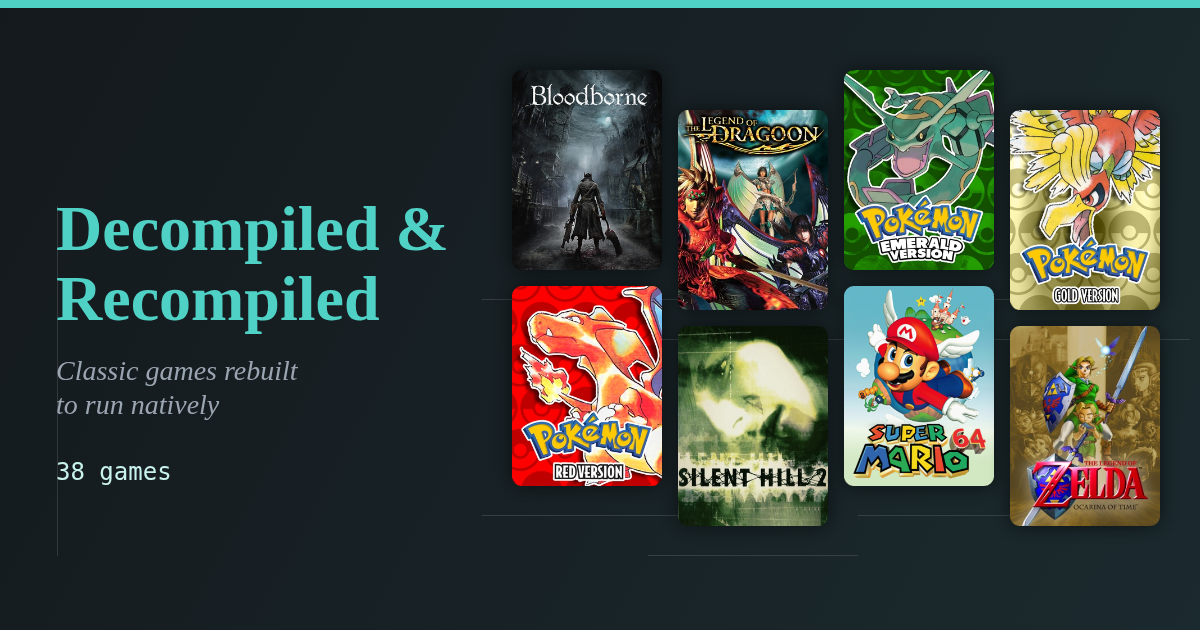
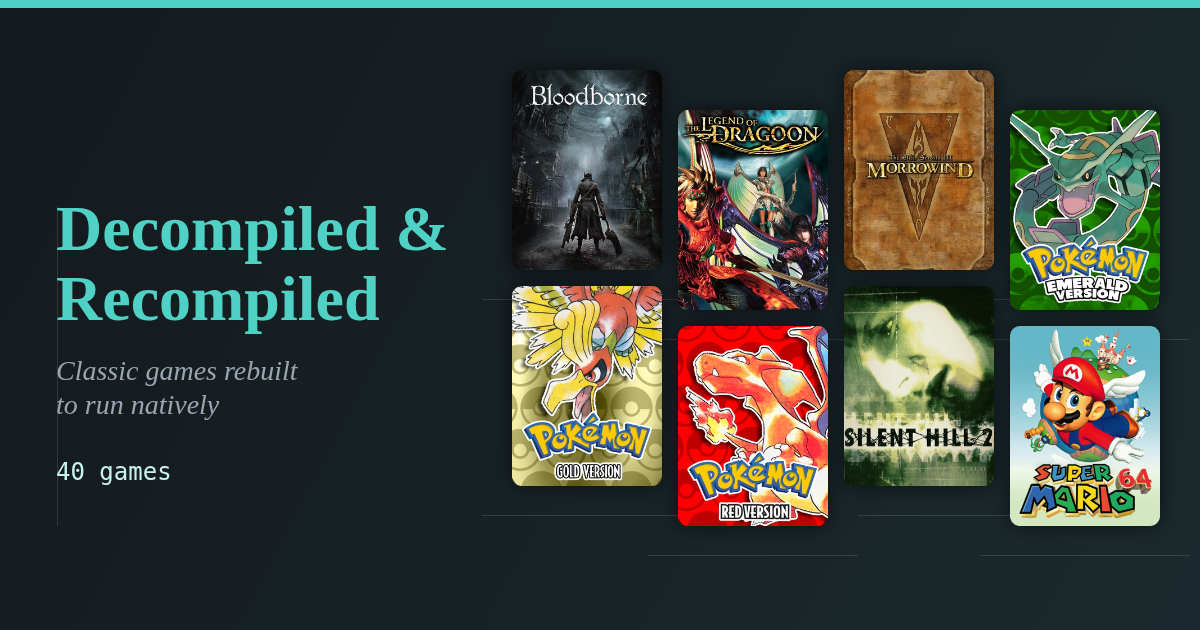
2026-10-24 15:03

Changed region(s): [[0.4008, 0.0905, 0.9867, 0.8444], [0.0308, 0.7238, 0.0617, 0.754]]

diff --git a/recomp/index.html b/recomp/index.html
@@ -32,7 +32,7 @@
 <div id="recomp-body"></div>
 <div class="recomp-header-sub">Updated 2026-10-24</div>
 </div>
-<script type="application/json" id="recomp-data">[{"title":"Banjo-Kazooie","year":"1998","status":"Released","hq":false,"platform":["N64"],"target":["3DS","PC"],"notes":"Supports 3D","cover":"https://cdn2.steamgriddb.com/thumb/260e341a628166bf868c778bcca8fdd7.png","urls":["https://github.com/aidenator/Lighthouse-3DS/releases","https://github.com/BanjoRecomp/BanjoRecomp/releases"]},{"title":"Bloodborne","year":"2015","status":"Released","hq":true,"platform":["PS4"],"target":["PC"],"notes":"v0.6 - high quality","cover":"https://cdn2.steamgriddb.com/thumb/021399af062379408df9c358a1a83cdb.jpg","urls":["https://github.com/deadinside28/bloodborne_pc/releases"]},{"title":"Dark Cloud","year":"2000","status":"Unverified","hq":false,"platform":["PS2"],"target":["PC"],"notes":"Not started until after 2?","cover":"https://cdn2.steamgriddb.com/thumb/79d58cf9cf3ba08874b23b73a1cbdf08.jpg","urls":["https://github.com/TheMoonPeople/Chronicle"]},{"title":"Dark Cloud 2","year":"2002","status":"In Progress","hq":false,"platform":["PS2"],"target":["PC"],"notes":"v0.9.5 - playable, needs improvement","cover":"https://cdn2.steamgriddb.com/thumb/b084f475f1244ad87ae8faa2b3bd82a5.jpg","urls":["https://github.com/Red-tv141/DC2-PS2RECOMP/releases"]},{"title":"Deception I - Tecmo's Deception: Invitation to Darkness","year":"","status":"Released","hq":false,"platform":["PS1"],"target":["PC"],"notes":"","cover":"https://cdn2.steamgriddb.com/thumb/de6e717e11835cc693a4ed7c8a722690.jpg","urls":["https://github.com/dannyowelch/deception-recomp/releases"]},{"title":"Dinosaur Planet","year":"","status":"Released","hq":false,"platform":["N64"],"target":["PC"],"notes":"Unrelease precursor to Starfox Adventures","cover":"https://cdn2.steamgriddb.com/thumb/11738c383581f80d010ca13ac005d763.jpg","urls":["https://github.com/DinosaurPlanetRecomp/dino-recomp/releases"]},{"title":"Eternal Darkness: Sanity's Requiem","year":"2002","status":"Released","hq":false,"platform":["GC"],"target":["PC"],"notes":"","cover":"https://cdn2.steamgriddb.com/thumb/3e42021abd9df64e0f46279806ed9970.jpg","urls":["https://github.com/griches/EternalDarknessRecomp/releases"]},{"title":"GoldenEye 007 XBLA","year":"2010","status":"Released","hq":false,"platform":["N64","Xbox"],"target":["PC"],"notes":"Unreleased XBOX/XBLA version. A N64 recomp also exists.","cover":"https://cdn2.steamgriddb.com/thumb/f0971d67a49ade9bab406f7664e8129d.jpg","urls":["https://github.com/CaiusCodes/GoldenEye-007-XBLA-PC-Recomp/releases"]},{"title":"Gravity Rush","year":"2012","status":"Released","hq":false,"platform":["PS4"],"target":["PC"],"notes":"v0.1.8","cover":"https://cdn2.steamgriddb.com/thumb/b5c6f7094bd23b059624131ec409a422.jpg","urls":["https://github.com/LucaPazienza/gravityrush_pc/releases/"]},{"title":"Gravity Rush 2","year":"","status":"Released","hq":false,"platform":["PS4"],"target":["PC"],"notes":"Same author as Last Guardian port.","cover":["https://cdn2.steamgriddb.com/thumb/6ac9536a82fe2896847e4c4fb1f72de2.jpg"],"urls":["https://recompsoftware.com/p/gr2-pc/"]},{"title":"Ico","year":"2001","status":"Released","hq":false,"platform":["PS2"],"target":["PC"],"notes":"v0.8.6","cover":"https://cdn2.steamgriddb.com/thumb/54c8077a3713597237f91535a6082b1f.jpg","urls":["https://github.com/nathanialf/ico-pc/releases"]},{"title":"Jet Force Gemini","year":"","status":"Released","hq":false,"platform":["N64"],"target":["PC"],"notes":"","cover":"https://cdn2.steamgriddb.com/thumb/e40084a1c911addf8a36b6058c123cdc.jpg","urls":["https://github.com/TK22-26/JetForceGemini-Recomp/releases"]},{"title":"King's Field IV The Ancient City","year":"2001","status":"Unverified","hq":false,"platform":["PS2"],"target":["?"],"notes":"","cover":"https://cdn2.steamgriddb.com/thumb/1fb4554ec4192679831737705c8839f2.jpg","urls":["https://voicedrew11.github.io/kfiv-decomp/progress/"]},{"title":"Legend of Dragoon","year":"","status":"Released","hq":true,"platform":["PS1"],"target":["PC"],"notes":"v3.0 - high quality","cover":"https://cdn2.steamgriddb.com/thumb/aa82fd1c7df60df76d515816cbdb76a0.jpg","urls":["https://github.com/Legend-of-Dragoon-Modding/Severed-Chains/releases"]},{"title":"Mega Man Legends","year":"","status":"Released","hq":false,"platform":["PS1"],"target":["PC"],"notes":"","cover":"https://cdn2.steamgriddb.com/thumb/de46b308829039baf89d3f4aee7e22a9.jpg","urls":["https://github.com/VuloB1/MegaManLegendsRecomp/releases/tag/v0.1.0"]},{"title":"Mega Man Legends 2","year":"","status":"Unverified","hq":false,"platform":["PS1"],"target":["PC"],"notes":"Unverified","cover":"https://cdn2.steamgriddb.com/thumb/c4f67f7d632843a4fc5dbe9c090df9df.jpg","urls":["https://github.com/alexbeavs-ps1-ports/mega-man-legends-2-recomp/releases"]},{"title":"Perfect Dark","year":"NaN","status":"Released","hq":false,"platform":["N64"],"target":["PC"],"notes":"","cover":"https://cdn2.steamgriddb.com/thumb/f2eaa301f9c53bb10fb8e5b9d3d0ea9c.jpg","urls":["https://github.com/n64hub/perfect-dark-recomp/releases"]},{"title":"Pokémon Emerald","year":"2004","status":"Released","hq":true,"platform":["GBA"],"target":["3DS"],"notes":"Dual screen support, 3D voxel graphics option.","cover":"https://cdn2.steamgriddb.com/thumb/3cf4fceab9d14ef6a28b0a964d27d6f5.jpg","urls":["https://emerald-3ds.com/"]},{"title":"Pokémon Gold","year":"1999","status":"Released","hq":true,"platform":["GB"],"target":["PC"],"notes":"Might prefer Polished Crystal romhack to this recomp.","cover":"https://cdn2.steamgriddb.com/thumb/e82fdbf5ac57bb46fb25935dc894038c.jpg","urls":["https://gen2recomp.net/"]},{"title":"Pokémon Red","year":"1996","status":"Released","hq":true,"platform":["GB"],"target":["PC"],"notes":"","cover":"https://cdn2.steamgriddb.com/thumb/4d53e7e87772a51972bc942a99de63c9.jpg","urls":["https://gen1recomp.com/"]},{"title":"Resident Evil: Code: Veronica","year":"2000","status":"Released","hq":false,"platform":["?"],"target":["PC"],"notes":"","cover":"https://cdn2.steamgriddb.com/thumb/9ab45beb213b81202a330cfa5e99b411.jpg","urls":["https://github.com/aikatore/recvx-enhanced-port/releases"]},{"title":"Shadow of the Colossus","year":"2005","status":"Released","hq":false,"platform":["PS2","PS4"],"target":["PC"],"notes":"PS4 version, may only have windows executable.","cover":"https://cdn2.steamgriddb.com/thumb/c85bd019483ea2c17032bf940015d8c6.jpg","urls":["https://github.com/AjncSystem/ShadowOfTheColossus-PC/releases"]},{"title":"Silent Hill","year":"1999","status":"Released","hq":false,"platform":["PS1"],"target":["PC"],"notes":"","cover":"https://cdn2.steamgriddb.com/thumb/1dcc077aab5503c56609968fc56e3f1b.jpg","urls":["https://github.com/SlickAmogus/silent-hill-decomp/releases"]},{"title":"Silent Hill 2","year":"2001","status":"Released","hq":true,"platform":["PS2"],"target":["3DS","PC"],"notes":"sh23ds is a new engine, written in C for the 3DS, that plays Silent Hill 2 from the PC version's own data.","cover":"https://cdn2.steamgriddb.com/thumb/b9c7994af9dd5f0684c53371e91444a8.jpg","urls":["https://github.com/ankushKun/sh23ds/releases"]},{"title":"Silent Hill: Downpour","year":"2011","status":"Released","hq":false,"platform":["PS3"],"target":["PC"],"notes":"v1.1.8","cover":"https://cdn2.steamgriddb.com/thumb/7f996610ab63c3bc9590c1bd8e9a7d65.jpg","urls":["https://github.com/LittleBitUA/DownpourRecomp/releases"]},{"title":"Skies of Arcadia","year":"2000","status":"Released","hq":false,"platform":["GC"],"target":["PC"],"notes":"Allows extraction of uncompressed audio from dreamcast version for usage in gamecube game.","cover":"https://m.media-amazon.com/images/I/51J1KQMPg6L.jpg","urls":["https://github.com/ogdanimal/SkiesOfArcadiaLegends-Recomp/releases"]},{"title":"Super Mario 64","year":"","status":"Released","hq":true,"platform":["N64"],"target":["3DS"],"notes":"Supports 3D","cover":"https://cdn2.steamgriddb.com/thumb/ea98cb4ef75b56acda616e5166438fb6.png","urls":["https://github.com/Splashy527/sm64-port"]},{"title":"The Last Guardian","year":"2016","status":"Released","hq":false,"platform":["PS4"],"target":["PC"],"notes":"","cover":"https://cdn2.steamgriddb.com/thumb/9de0389a7c202d5101fa0543cd37daed.jpg","urls":["https://github.com/HayatoG/tlg_pc/releases"]},{"title":"The Legend of Zelda: A Link to the Past","year":"","status":"Released","hq":false,"platform":["SNES"],"target":["3DS","PC"],"notes":"Supports dual screen","cover":"https://cdn2.steamgriddb.com/thumb/7edaadde50012f0860952123564eb1ba.jpg","urls":["https://github.com/EstebanPdN/zelda-alttp-3ds/releases"]},{"title":"The Legend of Zelda: Link's Awakening","year":"2019","status":"Released","hq":false,"platform":["SWITCH"],"target":["PC"],"notes":"","cover":"https://cdn2.steamgriddb.com/thumb/62e42d5128071bb96fc3a269019e0504.png","urls":["https://github.com/peiikai/LASRecomp/releases"]},{"title":"The Legend of Zelda: Link's Awakening DX","year":"1993","status":"Released","hq":false,"platform":["GB"],"target":["PC"],"notes":"Full remake","cover":"https://cdn2.steamgriddb.com/thumb/d49341a06820dffb768971bcb1b951c7.jpg","urls":["https://archive.org/details/links-awakening-dx-hd"]},{"title":"The Legend of Zelda: Majora's Mask","year":"","status":"Released","hq":false,"platform":["N64"],"target":["PC"],"notes":"v1.2.2","cover":"https://cdn2.steamgriddb.com/thumb/775679ee9220a358ee19f572041e40f0.jpg","urls":["https://github.com/Zelda64Recomp/Zelda64Recomp/releases"]},{"title":"The Legend of Zelda: Ocarina of Time","year":"","status":"Released","hq":true,"platform":["N64"],"target":["PC","PSP"],"notes":"High quality. Includes randomizer.","cover":"https://cdn2.steamgriddb.com/thumb/ed89e6477ff6a465891a5f17f77948ae.jpg","urls":["https://www.shipofharkinian.com/","https://github.com/z2442/oot-PSP/releases"]},{"title":"The Legend of Zelda: The Wind Waker","year":"2002","status":"Released","hq":true,"platform":["GC","WiiU"],"target":["PC"],"notes":"","cover":"https://cdn2.steamgriddb.com/thumb/8d5c0500d7ec1c04842c4b33673d0f43.jpg","urls":["https://github.com/ZeldaWWHDRecomp/ZeldaWWHDRecomp/releases"]},{"title":"The Legend of Zelda: Twilight Princess","year":"2006","status":"Released","hq":true,"platform":["GC"],"target":["PC"],"notes":"High quality","cover":"https://cdn2.steamgriddb.com/thumb/ce3e0c75f7e8a5b4c78a0ac050b73bbd.jpg","urls":["https://twilitrealm.dev/"]},{"title":"The Simpsons: Hit & Run","year":"","status":"Released","hq":true,"platform":["PC"],"target":["3DS"],"notes":"Supports 3D and second screen radar map.","cover":"https://cdn2.steamgriddb.com/thumb/3ab7434b949fbf9a19c3fcc830c1bdf1.jpg","urls":["https://github.com/AlexMolina08/The-Simpsons-Hit-and-Run-O3DS/releases"]},{"title":"Uncharted: The Nathan Drake Collection","year":"2015","status":"Released","hq":true,"platform":["PS4"],"target":["PC"],"notes":"v0.3.9 wndows/proton","cover":"https://cdn2.steamgriddb.com/thumb/6374abaaafb1a4c0832a34ffa29b15b0.jpg","urls":["https://github.com/Supermedo/uncharted_pc/releases"]},{"title":"Valkyrie Profile","year":"1999","status":"Unverified","hq":false,"platform":["PS1"],"target":["PC"],"notes":"Unverified. Uses PSXRecomp. PSP vesion Lenneth might be a better experience.","cover":"https://cdn2.steamgriddb.com/thumb/6f1e903e8fca6d5649f73e37364d7c26.jpg","urls":["https://github.com/Ed1z19/ValkyrieRecomp/releases","https://github.com/hachi23/ValkyrieRecomp-Complete"]}]</script>
+<script type="application/json" id="recomp-data">[{"title":"Banjo-Kazooie","year":"1998","status":"Released","hq":false,"platform":["N64"],"target":["3DS","PC"],"notes":"Supports 3D","cover":"https://cdn2.steamgriddb.com/thumb/260e341a628166bf868c778bcca8fdd7.png","urls":["https://github.com/aidenator/Lighthouse-3DS/releases","https://github.com/BanjoRecomp/BanjoRecomp/releases"]},{"title":"Bloodborne","year":"2015","status":"Released","hq":true,"platform":["PS4"],"target":["PC"],"notes":"v0.6 - high quality","cover":"https://cdn2.steamgriddb.com/thumb/021399af062379408df9c358a1a83cdb.jpg","urls":["https://github.com/deadinside28/bloodborne_pc/releases"]},{"title":"Dark Cloud","year":"2000","status":"Unverified","hq":false,"platform":["PS2"],"target":["PC"],"notes":"Not started until after 2?","cover":"https://cdn2.steamgriddb.com/thumb/79d58cf9cf3ba08874b23b73a1cbdf08.jpg","urls":["https://github.com/TheMoonPeople/Chronicle"]},{"title":"Dark Cloud 2","year":"2002","status":"In Progress","hq":false,"platform":["PS2"],"target":["PC"],"notes":"v0.9.5 - playable, needs improvement","cover":"https://cdn2.steamgriddb.com/thumb/b084f475f1244ad87ae8faa2b3bd82a5.jpg","urls":["https://github.com/Red-tv141/DC2-PS2RECOMP/releases"]},{"title":"Deception I - Tecmo's Deception: Invitation to Darkness","year":"","status":"Released","hq":false,"platform":["PS1"],"target":["PC"],"notes":"","cover":"https://cdn2.steamgriddb.com/thumb/de6e717e11835cc693a4ed7c8a722690.jpg","urls":["https://github.com/dannyowelch/deception-recomp/releases"]},{"title":"Dinosaur Planet","year":"","status":"Released","hq":false,"platform":["N64"],"target":["PC"],"notes":"Unrelease precursor to Starfox Adventures","cover":"https://cdn2.steamgriddb.com/thumb/11738c383581f80d010ca13ac005d763.jpg","urls":["https://github.com/DinosaurPlanetRecomp/dino-recomp/releases"]},{"title":"Eternal Darkness: Sanity's Requiem","year":"2002","status":"Released","hq":false,"platform":["GC"],"target":["PC"],"notes":"","cover":"https://cdn2.steamgriddb.com/thumb/3e42021abd9df64e0f46279806ed9970.jpg","urls":["https://github.com/griches/EternalDarknessRecomp/releases"]},{"title":"GoldenEye 007 XBLA","year":"2010","status":"Released","hq":false,"platform":["N64","Xbox"],"target":["PC"],"notes":"Unreleased XBOX/XBLA version. A N64 recomp also exists.","cover":"https://cdn2.steamgriddb.com/thumb/f0971d67a49ade9bab406f7664e8129d.jpg","urls":["https://github.com/CaiusCodes/GoldenEye-007-XBLA-PC-Recomp/releases"]},{"title":"Gravity Rush","year":"2012","status":"Released","hq":false,"platform":["PS4"],"target":["PC"],"notes":"v0.1.8","cover":"https://cdn2.steamgriddb.com/thumb/b5c6f7094bd23b059624131ec409a422.jpg","urls":["https://github.com/LucaPazienza/gravityrush_pc/releases/"]},{"title":"Gravity Rush 2","year":"","status":"Released","hq":false,"platform":["PS4"],"target":["PC"],"notes":"Same author as Last Guardian port.","cover":["https://cdn2.steamgriddb.com/thumb/6ac9536a82fe2896847e4c4fb1f72de2.jpg"],"urls":["https://recompsoftware.com/p/gr2-pc/"]},{"title":"Ico","year":"2001","status":"Released","hq":false,"platform":["PS2"],"target":["PC"],"notes":"v0.8.6","cover":"https://cdn2.steamgriddb.com/thumb/54c8077a3713597237f91535a6082b1f.jpg","urls":["https://github.com/nathanialf/ico-pc/releases"]},{"title":"Jak and Daxter: The Precursor Legacy","year":"2001","status":"Released","hq":false,"platform":["PS2"],"target":["PC"],"notes":"OpenGOAL is a total engine rewrite for Jak 1,2,3.","cover":"https://cdn2.steamgriddb.com/thumb/a86c4aec1bcf14eb30646ed8df2d2401.jpg","urls":["https://opengoal.dev/"]},{"title":"Jet Force Gemini","year":"","status":"Released","hq":false,"platform":["N64"],"target":["PC"],"notes":"","cover":"https://cdn2.steamgriddb.com/thumb/e40084a1c911addf8a36b6058c123cdc.jpg","urls":["https://github.com/TK22-26/JetForceGemini-Recomp/releases"]},{"title":"King's Field IV The Ancient City","year":"2001","status":"Unverified","hq":false,"platform":["PS2"],"target":["?"],"notes":"","cover":"https://cdn2.steamgriddb.com/thumb/1fb4554ec4192679831737705c8839f2.jpg","urls":["https://voicedrew11.github.io/kfiv-decomp/progress/"]},{"title":"Legend of Dragoon","year":"","status":"Released","hq":true,"platform":["PS1"],"target":["PC"],"notes":"v3.0 - high quality","cover":"https://cdn2.steamgriddb.com/thumb/aa82fd1c7df60df76d515816cbdb76a0.jpg","urls":["https://github.com/Legend-of-Dragoon-Modding/Severed-Chains/releases"]},{"title":"Mega Man Legends","year":"","status":"Released","hq":false,"platform":["PS1"],"target":["PC"],"notes":"","cover":"https://cdn2.steamgriddb.com/thumb/de46b308829039baf89d3f4aee7e22a9.jpg","urls":["https://github.com/VuloB1/MegaManLegendsRecomp/releases/tag/v0.1.0"]},{"title":"Mega Man Legends 2","year":"","status":"Unverified","hq":false,"platform":["PS1"],"target":["PC"],"notes":"Unverified","cover":"https://cdn2.steamgriddb.com/thumb/c4f67f7d632843a4fc5dbe9c090df9df.jpg","urls":["https://github.com/alexbeavs-ps1-ports/mega-man-legends-2-recomp/releases"]},{"title":"openMW - Tamriel Rebuild (The Elder Scrolls III: Morrowind)","year":"2009","status":"Released","hq":true,"platform":["PC"],"target":["PC"],"notes":"OpenMW is a total engine rewrite and the preferred way to play.","cover":"https://cdn2.steamgriddb.com/thumb/1ac14644c9b40ddeb100f417af0e608b.jpg","urls":["https://openmw.org/","https://www.tamriel-rebuilt.org/","https://openmw-vr.readthedocs.io/en/latest/manuals/installation/install-openmw-vr.html"]},{"title":"Perfect Dark","year":"NaN","status":"Released","hq":false,"platform":["N64"],"target":["PC"],"notes":"","cover":"https://cdn2.steamgriddb.com/thumb/f2eaa301f9c53bb10fb8e5b9d3d0ea9c.jpg","urls":["https://github.com/n64hub/perfect-dark-recomp/releases"]},{"title":"Pokémon Emerald","year":"2004","status":"Released","hq":true,"platform":["GBA"],"target":["3DS"],"notes":"Dual screen support, 3D voxel graphics option.","cover":"https://cdn2.steamgriddb.com/thumb/3cf4fceab9d14ef6a28b0a964d27d6f5.jpg","urls":["https://emerald-3ds.com/"]},{"title":"Pokémon Gold","year":"1999","status":"Released","hq":true,"platform":["GB"],"target":["PC"],"notes":"Might prefer Polished Crystal romhack to this recomp.","cover":"https://cdn2.steamgriddb.com/thumb/e82fdbf5ac57bb46fb25935dc894038c.jpg","urls":["https://gen2recomp.net/"]},{"title":"Pokémon Red","year":"1996","status":"Released","hq":true,"platform":["GB"],"target":["PC"],"notes":"","cover":"https://cdn2.steamgriddb.com/thumb/4d53e7e87772a51972bc942a99de63c9.jpg","urls":["https://gen1recomp.com/"]},{"title":"Resident Evil: Code: Veronica","year":"2000","status":"Released","hq":false,"platform":["?"],"target":["PC"],"notes":"","cover":"https://cdn2.steamgriddb.com/thumb/9ab45beb213b81202a330cfa5e99b411.jpg","urls":["https://github.com/aikatore/recvx-enhanced-port/releases"]},{"title":"Shadow of the Colossus","year":"2005","status":"Released","hq":false,"platform":["PS2","PS4"],"target":["PC"],"notes":"PS4 version, may only have windows executable.","cover":"https://cdn2.steamgriddb.com/thumb/c85bd019483ea2c17032bf940015d8c6.jpg","urls":["https://github.com/AjncSystem/ShadowOfTheColossus-PC/releases"]},{"title":"Silent Hill","year":"1999","status":"Released","hq":false,"platform":["PS1"],"target":["PC"],"notes":"","cover":"https://cdn2.steamgriddb.com/thumb/1dcc077aab5503c56609968fc56e3f1b.jpg","urls":["https://github.com/SlickAmogus/silent-hill-decomp/releases"]},{"title":"Silent Hill 2","year":"2001","status":"Released","hq":true,"platform":["PS2"],"target":["3DS","PC"],"notes":"sh23ds is a new engine, written in C for the 3DS, that plays Silent Hill 2 from the PC version's own data.","cover":"https://cdn2.steamgriddb.com/thumb/b9c7994af9dd5f0684c53371e91444a8.jpg","urls":["https://github.com/ankushKun/sh23ds/releases"]},{"title":"Silent Hill: Downpour","year":"2011","status":"Released","hq":false,"platform":["PS3"],"target":["PC"],"notes":"v1.1.8","cover":"https://cdn2.steamgriddb.com/thumb/7f996610ab63c3bc9590c1bd8e9a7d65.jpg","urls":["https://github.com/LittleBitUA/DownpourRecomp/releases"]},{"title":"Skies of Arcadia","year":"2000","status":"Released","hq":false,"platform":["GC"],"target":["PC"],"notes":"Allows extraction of uncompressed audio from dreamcast version for usage in gamecube game.","cover":"https://m.media-amazon.com/images/I/51J1KQMPg6L.jpg","urls":["https://github.com/ogdanimal/SkiesOfArcadiaLegends-Recomp/releases"]},{"title":"Super Mario 64","year":"","status":"Released","hq":true,"platform":["N64"],"target":["3DS"],"notes":"Supports 3D","cover":"https://cdn2.steamgriddb.com/thumb/ea98cb4ef75b56acda616e5166438fb6.png","urls":["https://github.com/Splashy527/sm64-port"]},{"title":"The Last Guardian","year":"2016","status":"Released","hq":false,"platform":["PS4"],"target":["PC"],"notes":"","cover":"https://cdn2.steamgriddb.com/thumb/9de0389a7c202d5101fa0543cd37daed.jpg","urls":["https://github.com/HayatoG/tlg_pc/releases"]},{"title":"The Legend of Zelda: A Link to the Past","year":"","status":"Released","hq":false,"platform":["SNES"],"target":["3DS","PC"],"notes":"Supports dual screen","cover":"https://cdn2.steamgriddb.com/thumb/7edaadde50012f0860952123564eb1ba.jpg","urls":["https://github.com/EstebanPdN/zelda-alttp-3ds/releases"]},{"title":"The Legend of Zelda: Link's Awakening","year":"2019","status":"Released","hq":false,"platform":["SWITCH"],"target":["PC"],"notes":"","cover":"https://cdn2.steamgriddb.com/thumb/62e42d5128071bb96fc3a269019e0504.png","urls":["https://github.com/peiikai/LASRecomp/releases"]},{"title":"The Legend of Zelda: Link's Awakening DX","year":"1993","status":"Released","hq":false,"platform":["GB"],"target":["PC"],"notes":"Full remake","cover":"https://cdn2.steamgriddb.com/thumb/d49341a06820dffb768971bcb1b951c7.jpg","urls":["https://archive.org/details/links-awakening-dx-hd"]},{"title":"The Legend of Zelda: Majora's Mask","year":"","status":"Released","hq":false,"platform":["N64"],"target":["PC"],"notes":"v1.2.2","cover":"https://cdn2.steamgriddb.com/thumb/775679ee9220a358ee19f572041e40f0.jpg","urls":["https://github.com/Zelda64Recomp/Zelda64Recomp/releases"]},{"title":"The Legend of Zelda: Ocarina of Time","year":"","status":"Released","hq":true,"platform":["N64"],"target":["PC","PSP"],"notes":"High quality. Includes randomizer.","cover":"https://cdn2.steamgriddb.com/thumb/ed89e6477ff6a465891a5f17f77948ae.jpg","urls":["https://www.shipofharkinian.com/","https://github.com/z2442/oot-PSP/releases"]},{"title":"The Legend of Zelda: The Wind Waker","year":"2002","status":"Released","hq":true,"platform":["GC","WiiU"],"target":["PC"],"notes":"","cover":"https://cdn2.steamgriddb.com/thumb/8d5c0500d7ec1c04842c4b33673d0f43.jpg","urls":["https://github.com/ZeldaWWHDRecomp/ZeldaWWHDRecomp/releases"]},{"title":"The Legend of Zelda: Twilight Princess","year":"2006","status":"Released","hq":true,"platform":["GC"],"target":["PC"],"notes":"High quality","cover":"https://cdn2.steamgriddb.com/thumb/ce3e0c75f7e8a5b4c78a0ac050b73bbd.jpg","urls":["https://twilitrealm.dev/"]},{"title":"The Simpsons: Hit & Run","year":"","status":"Released","hq":true,"platform":["PC"],"target":["3DS"],"notes":"Supports 3D and second screen radar map.","cover":"https://cdn2.steamgriddb.com/thumb/3ab7434b949fbf9a19c3fcc830c1bdf1.jpg","urls":["https://github.com/AlexMolina08/The-Simpsons-Hit-and-Run-O3DS/releases"]},{"title":"Uncharted: The Nathan Drake Collection","year":"2015","status":"Released","hq":true,"platform":["PS4"],"target":["PC"],"notes":"v0.3.9 wndows/proton","cover":"https://cdn2.steamgriddb.com/thumb/6374abaaafb1a4c0832a34ffa29b15b0.jpg","urls":["https://github.com/Supermedo/uncharted_pc/releases"]},{"title":"Valkyrie Profile","year":"1999","status":"Unverified","hq":false,"platform":["PS1"],"target":["PC"],"notes":"Unverified. Uses PSXRecomp. PSP vesion Lenneth might be a better experience.","cover":"https://cdn2.steamgriddb.com/thumb/6f1e903e8fca6d5649f73e37364d7c26.jpg","urls":["https://github.com/Ed1z19/ValkyrieRecomp/releases","https://github.com/hachi23/ValkyrieRecomp-Complete"]}]</script>
 <script>(function webScript() {
     const games = JSON.parse(document.getElementById("recomp-data").textContent);
     const STATUS = {
